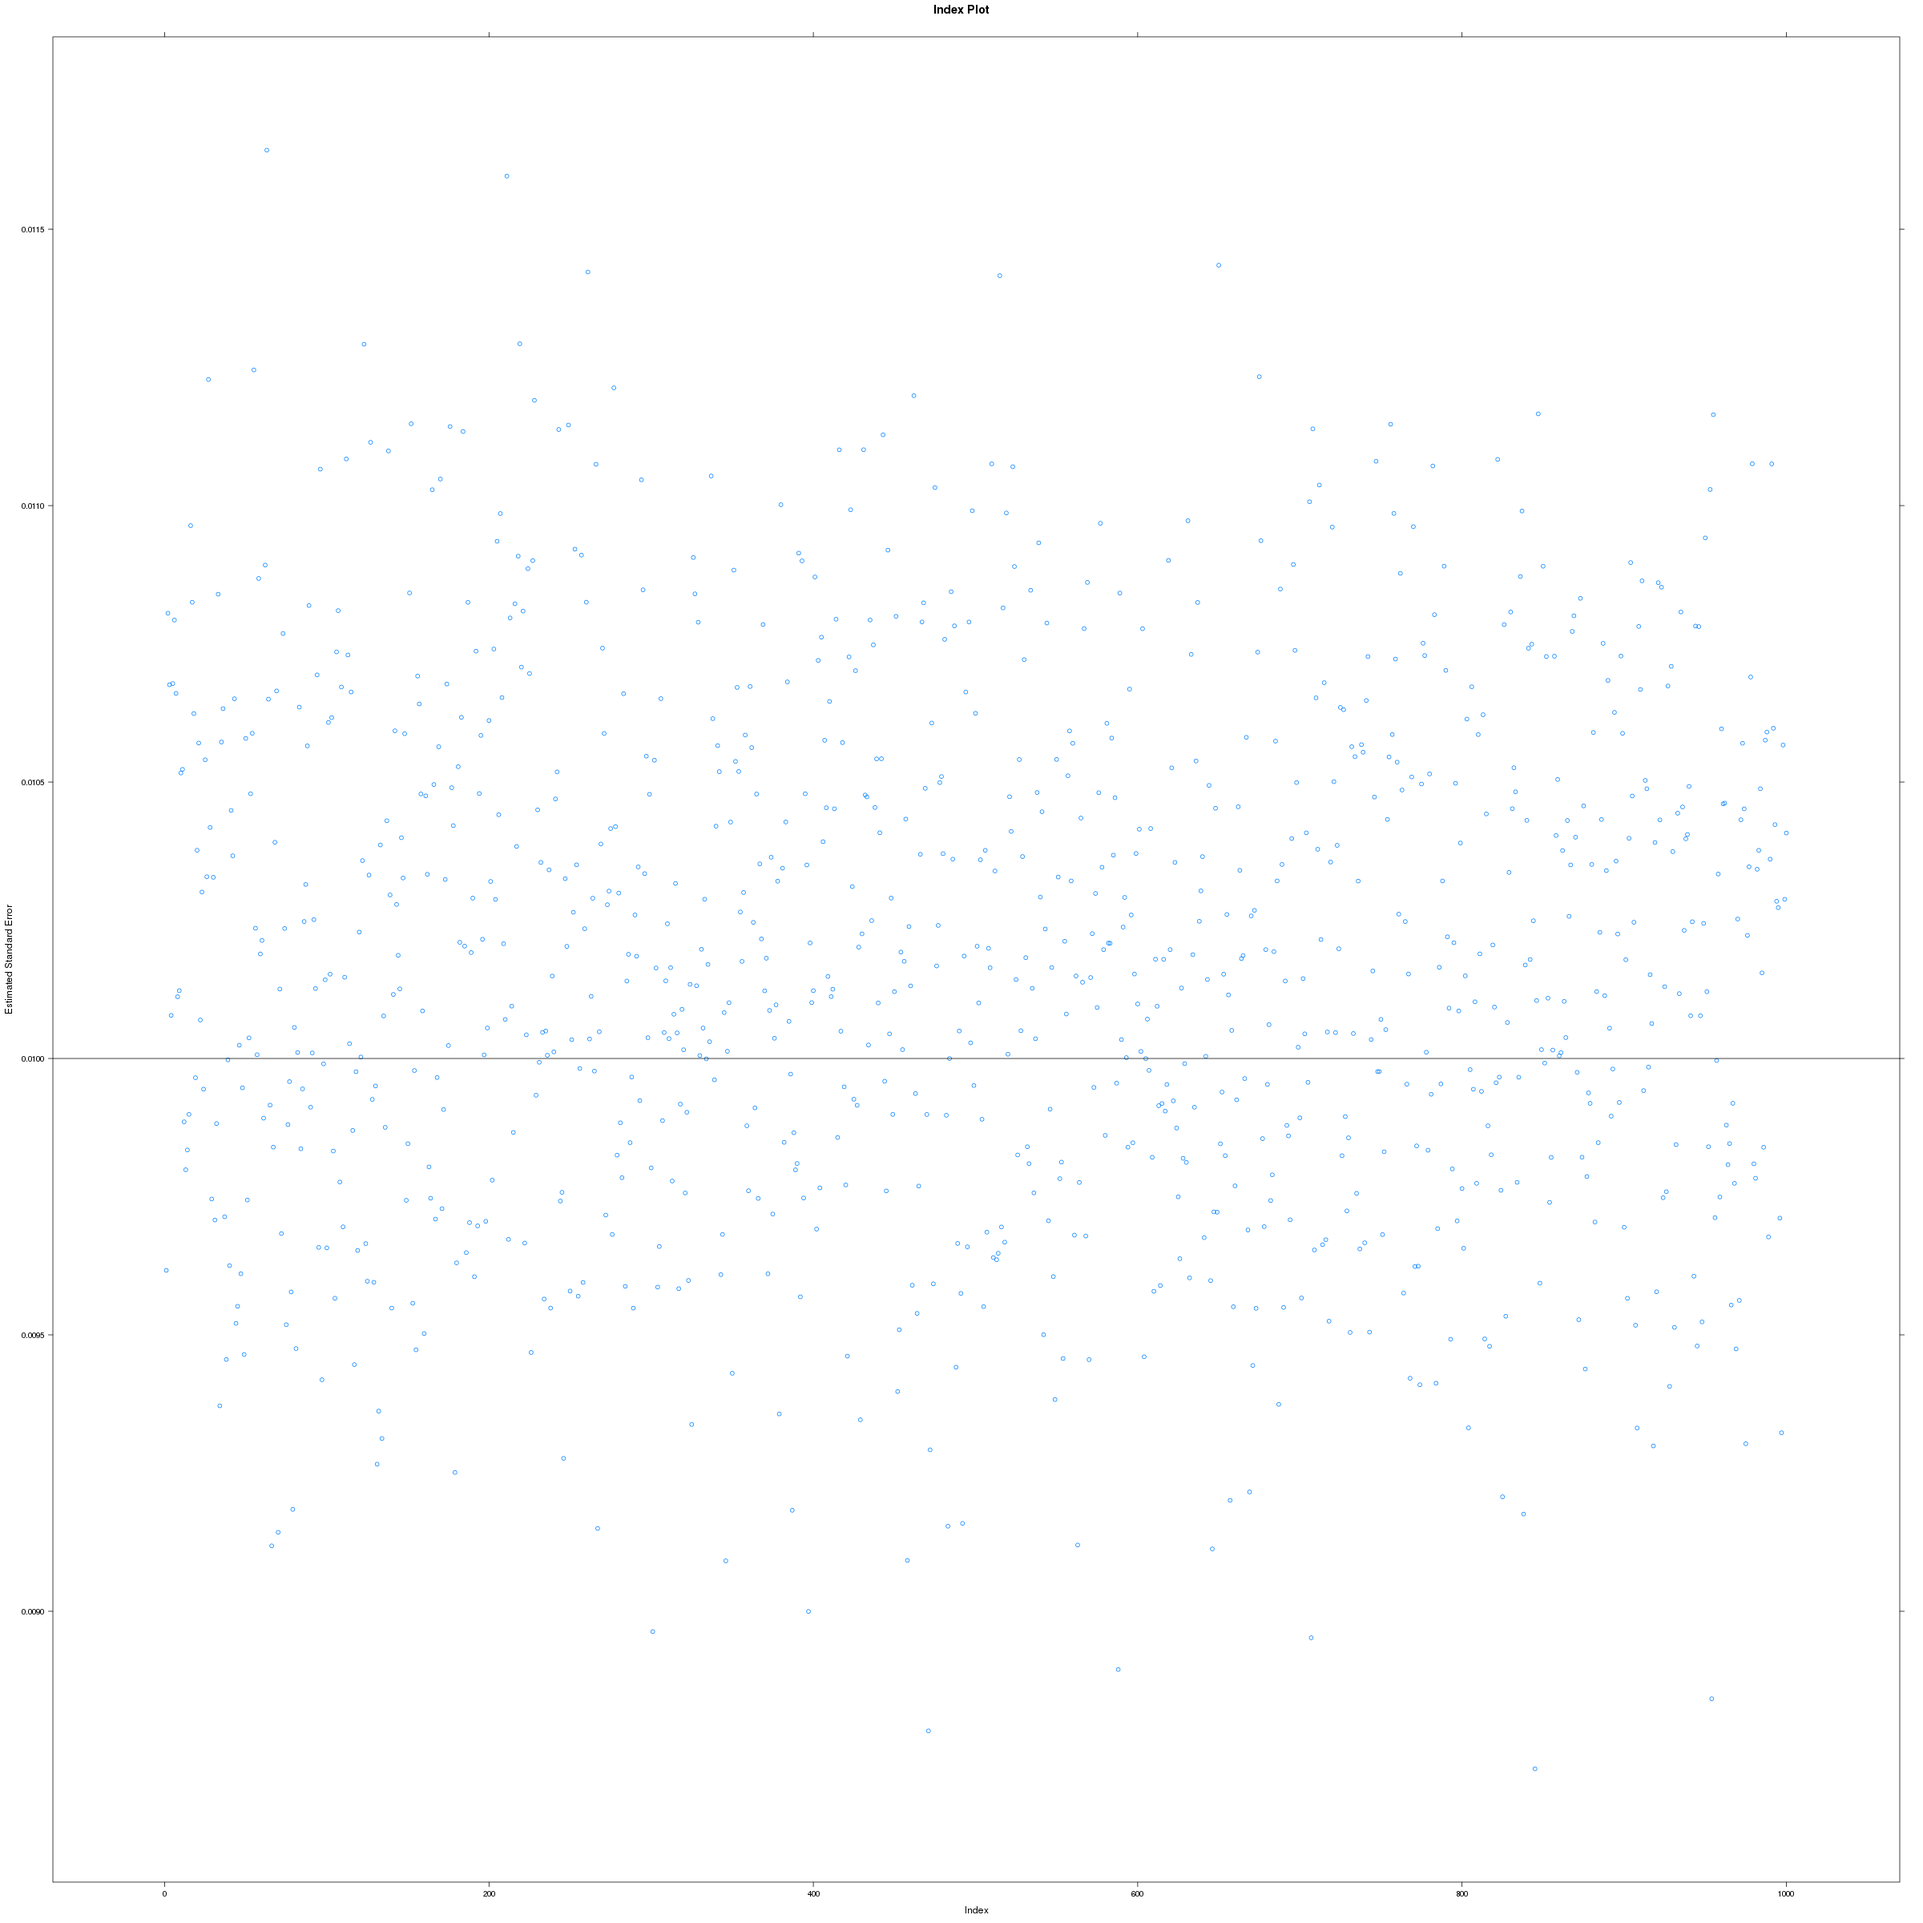
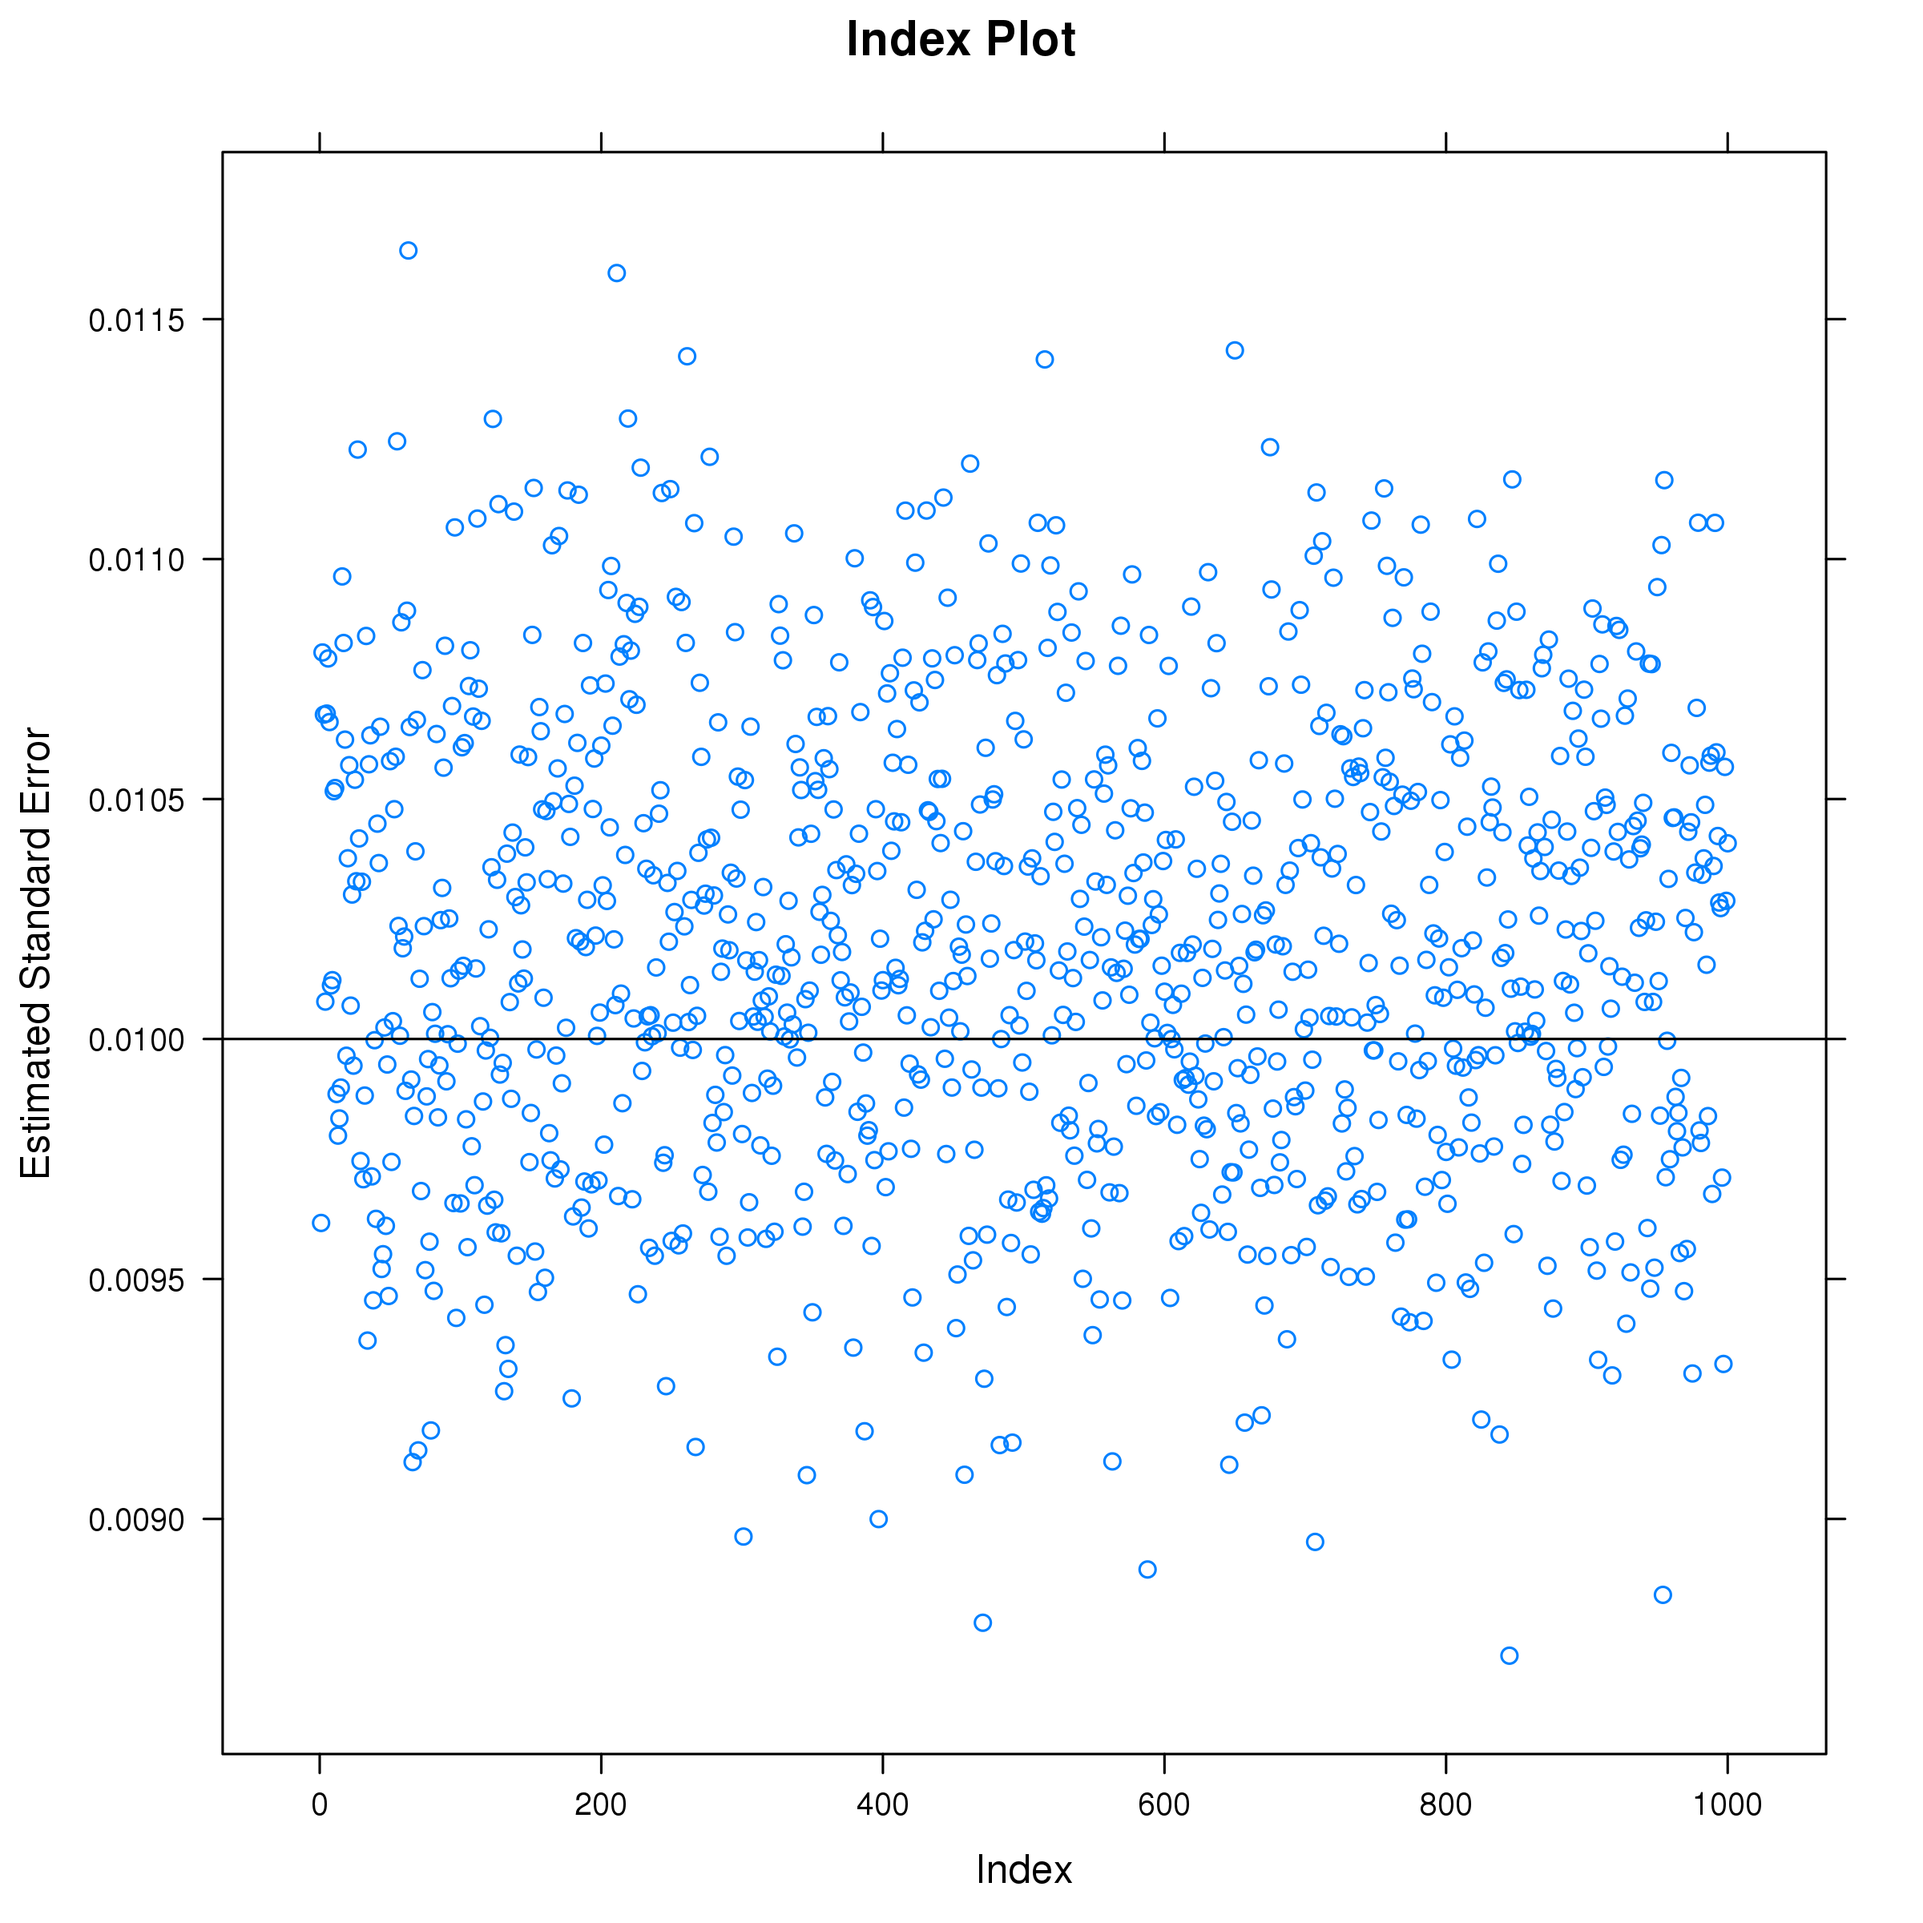
Add writeup and final touches for HW2.

diff --git a/HW2/tex/Hw2.tex b/HW2/tex/Hw2.tex
@@ -1,0 +1,121 @@
+
+\input{LatexHeader.tex}
+\pagestyle{name}
+\title{STA 250: Homework 2}
+
+\begin{document}
+\chapter*{Report}
+\begin{enumerate}
+\item
+The bootstrap estimates the standard error of a statistic by resampling from
+the empirical distribution.
+This is especially useful where deriving an analytic estimator of the standard
+error is unwieldy.
+When the number of observations, $n$, in the data set is very large, the
+bootstrap is no longer computationally feasible.
+The bag of little bootstraps works by drawing $s$ subsamples of size $b$ from
+the data set, without replacement. 
+From each subsample, $r$ bootstrap samples of size $n$ are resampled with
+replacement.
+This produces $s$ bootstrapped standard errors, which can be averaged to get
+an overall estimate.
+
+The key advantage to this approach is that there are at most $b$ unique
+observations in each bootstrapped sample.
+Provided the statistic of interest can be computed from weighted observations,
+this means only $b$ weighted observations need to be used in its computation,
+rather than a full $n$ observations.
+The result is a considerable savings on computation time.
+
+This assignment used $s = 5$, $r = 50$, and $b = n^{0.7}$.
+The algorithm appears to have performed well on the supplied data set.
+Based on the index plot (figure~\ref{fig:index}), almost all of the estimated
+standard errors fall within $0.01 \pm 0.001$.
+Performance of the code was acceptable, with each job running about $8$
+minutes at most.
+
+\item
+The mapper script, mapper.py, does most of the work in this MapReduce.
+It maps each $(x, y)$ pair to a bin of size $0.1 \times 0.1$ by multiplying
+both by $10$, taking the floor and ceiling, and then dividing these by $10$.
+The floored result gives $(x_{\mathrm{lo}}, y_{\mathrm{lo}})$, 
+while the ceilinged result gives $(x_{\mathrm{hi}}, y_{\mathrm{hi}})$.
+These are then combined into a key.
+The key is output with the value $1$, but this value is not actually
+necessary (the reducer script could just assume it is always $1$).
+
+The reducer script, reducer.py, counts the number of times it receives each
+key (and does respect the supplied value), outputting the results in
+comma-separated format.
+
+After a few false-starts due to a bad choice of hashbang,
+the entire map-reduce took about an hour on Amazon, using $1$ ``large'' master
+core and $2$ ``large'' compute cores.
+This was satisfactory considering the size of the data set and the amount of
+time spent waiting for enough capacity on the class account to create the 
+cluster.
+The resulting two-dimensional histogram (figure~\ref{fig:hist}) was a good
+reward.
+
+It was surprising to me that NumPy had no built-in function to floor or ceiling
+a number to arbitrary precision.
+It was also very nice how painless it was to get everything to work.
+That said, the error feedback from Hadoop was not very illuminating with
+regards to my hashbang problem. 
+Presumably Hadoop keeps logs of the actual errors the map-reduce produces?
+These would be tremendously useful in diagnosing a failed map-reduce.
+
+\item
+Using Hive was slightly more tricky than the other parts of the assignment,
+because few instructions were provided (not even the layout of the data).
+It took about an hour of experimenting with Hive and the mini data set on the
+Amazon cluster to figure out what to do.
+The difficulty was not in writing the SQL to create the table, but in
+determining whether the data had to be copied into Hadoop, or could be used
+directly from the S3 bucket.
+The former proved more fruitful.
+Once that was sorted, running the actual job on a fresh cluster took
+approximately 10 minutes (see figure~\ref{fig:mean-var} for the resulting plot).
+
+\end{enumerate}
+    \begin{figure}[p]
+    \includegraphics[width = 0.9\textwidth]{res/01_index_plot.png}
+    \caption{Plot of estimated standard error against parameter index.}
+    \label{fig:index}
+    \end{figure}
+
+    \begin{figure}[p]
+    \includegraphics[width = 0.9\textwidth]{res/hist2d.png}
+    \caption{
+    Two-dimensional histogram resulting from binning the supplied data.
+    }
+    \label{fig:hist}
+    \end{figure}
+
+    \begin{figure}[p]
+    \includegraphics[width = 0.9\textwidth]{res/03_mean_var_plot.png}
+    \caption{
+    Plot of within-group means against within-group variances for the 
+    supplied data.
+    }
+    \label{fig:mean-var}
+    \end{figure}
+
+\clearpage
+\chapter*{Source Code}
+\hrule
+\lstinputlisting{../BLB/BLB_lin_reg_job.py}
+\hrule
+\lstinputlisting{../BLB/BLB_index_plot.R}
+\hrule
+\lstinputlisting{../Streaming/mapper.py}
+\hrule
+\lstinputlisting{../Streaming/reducer.py}
+\hrule
+\lstinputlisting{../Hive/mean_var.sh}
+\hrule
+\lstinputlisting{../Hive/mean_var.sql}
+\hrule
+\lstinputlisting{../Hive/plot_mean_var.R}
+\end{document}
+

diff --git a/HW2/tex/LatexHeader.tex b/HW2/tex/LatexHeader.tex
@@ -1,0 +1,91 @@
+\documentclass[article]{memoir}
+
+% ----- Packages -----
+\usepackage{amsmath}
+\usepackage{amsfonts}
+\usepackage{amssymb}
+% Must come after amsmath.
+%\usepackage{amsthm}
+
+\usepackage{mathtools}
+\usepackage{subdepth}
+\usepackage{dsfont}
+\usepackage{flafter}
+\usepackage{graphicx}
+\usepackage{listings}
+
+% ----- Page -----
+\setlrmarginsandblock{1in}{1in}{*}
+\setulmarginsandblock{1in}{1in}{*}
+\checkandfixthelayout
+
+\makepagestyle{name}
+    \makeevenhead{name}{\textsl\thetitle}{}
+    {\textsl{\thepage\ of \thelastpage\ --- Nick Ulle}}
+    \makeoddhead{name}{\textsl\thetitle}{}
+    {\textsl{\thepage\ of \thelastpage\ --- Nick Ulle}}
+\makepagestyle{no-name}
+    \makeevenhead{no-name}{\textsl\thetitle}{}
+    {\textsl{\thepage\ of \thelastpage}}
+    \makeoddhead{no-name}{\textsl\thetitle}{}
+    {\textsl{\thepage\ of \thelastpage}}
+
+% ----- Floats -----
+\changecaptionwidth
+\captionwidth{0.6\textwidth}
+\setfloatadjustment{table}{\centering}
+\setfloatadjustment{figure}{\centering}
+
+\newsubfloat{table}
+\newsubfloat{figure}
+
+%\setFloatBlockFor{chapter}
+
+% ----- Listings -----
+\lstset{basicstyle = \ttfamily, numberstyle = \tiny, stepnumber = 2}
+
+% ----- Commands -----
+\let\Pr\relax%
+
+% Use the nice phi.
+\let\temp\phi
+\let\phi\varphi
+\let\varphi\temp
+
+\DeclareMathOperator{\Pr}{\mathds{P}}
+\DeclareMathOperator{\E}{\mathds{E}}
+\DeclareMathOperator{\Var}{Var}
+\DeclareMathOperator{\Cov}{Cov}
+\DeclareMathOperator{\Cor}{Cor}
+\DeclareMathOperator{\eul}{e}
+\DeclareMathOperator{\1}{\mathbf{1}}
+\DeclareMathOperator{\sign}{sign}
+\DeclareMathOperator{\diag}{diag}
+\DeclareMathOperator{\tr}{tr}
+\DeclareMathOperator*{\argmin}{argmin}
+\DeclareMathOperator*{\argmax}{argmax}
+%\DeclareMathOperator{\N}{N}
+%\DeclareMathOperator{\F}{F}
+%\DeclareMathOperator{\Wishart}{W}
+
+\newcommand{\abs}[1]{\lvert#1\rvert}
+\newcommand{\norm}[1]{\lVert#1\rVert}
+\newcommand{\ceil}[1]{\lceil#1\rceil}
+\newcommand{\floor}[1]{\lfloor#1\rfloor}
+\newcommand{\df}{\,\mathrm{d}}
+\newcommand{\pd}[2][]{\frac{\partial#1}{\partial#2}}
+\newcommand{\dv}[2][]{\frac{\mathrm{d}#1}{\mathrm{d}#2}}
+\newcommand{\inD}{\mathop{\rightarrow}\limits^{\mathrm{D}}}
+\newcommand{\inP}{\mathop{\rightarrow}\limits^{\mathrm{P}}}
+\newcommand{\qed}{\hfill \ensuremath{\square}}
+\newcommand{\T}{^\mathsf{T}}
+\newcommand{\C}{^\mathsf{C}}
+\newcommand{\io}{\text{ i.o.}}
+\newcommand{\ev}{\text{ ev.}}
+\newcommand{\dist}[1]{\operatorname{#1}}
+\newcommand{\iid}{\overset{\mathrm{iid}}{\sim}}
+\newcommand{\on}[1]{\operatorname{\mathds{1}}\!\left\{#1\right\}}
+\newcommand{\ind}{\protect\mathpalette{\protect\independenT}{\perp}}
+
+\def\independenT#1#2{\mathrel{\rlap{$#1#2$}\mkern4mu{#1#2}}}
+
